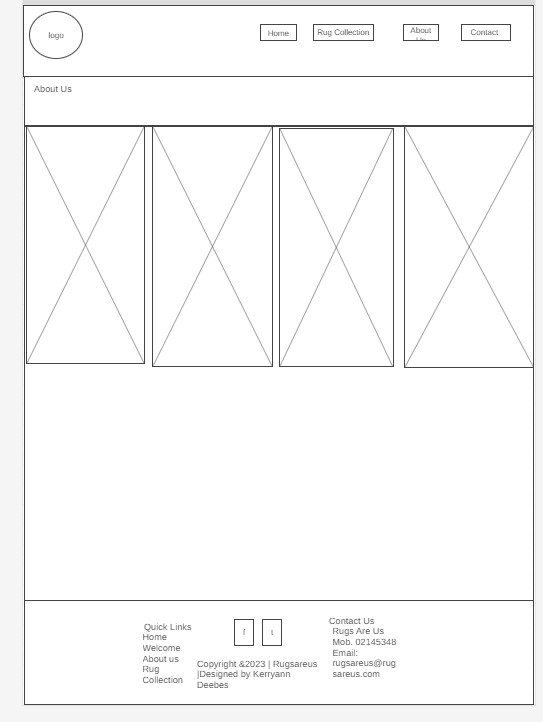
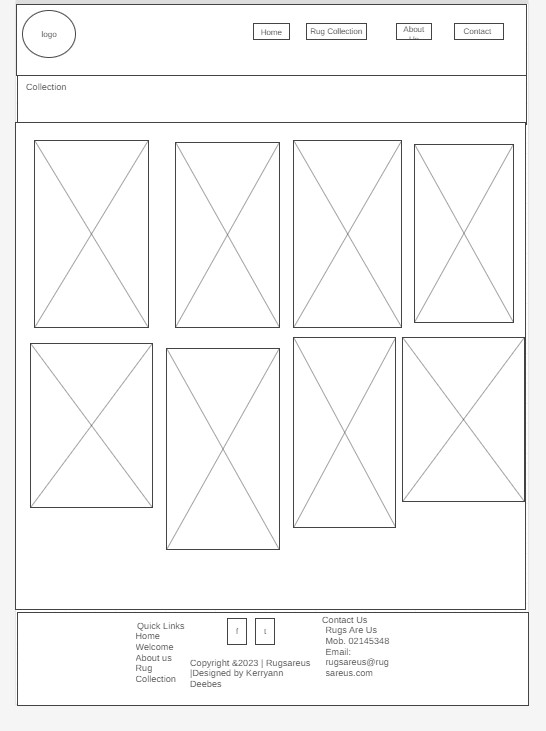
Changes

diff --git a/rugsareus/aboutus.html b/rugsareus/aboutus.html
@@ -8,15 +8,16 @@
 <body>
     <div id="content">
         <header>
-            <a id="logo_link" href="index.html">
-                <img class="logo" src="images/logo1.jpg" alt="Dry Oar Logo" height="60" width="60">
-            </a>
+            <img class="logo" src="images/logo1.jpg" alt="logo" height="60" width="60">
             <nav>
-                <a href="index.html">Home</a>
-                <a href="rugcollection.html">Rug Collection</a>
-                <a href="aboutus.html"> About Us</a>
+              <ul class="nav_links">
+                <li><a href="index.html">Home</a></li>
+                <li><a href="rug-collection.html">Rug Collection</a></li>
+                <li><a href="aboutus.html">About Us</a></li>
+              </ul>
             </nav>
-        </header>
+            <a class="cta" href="#"><button>Contact</button></a>
+          </header>
         <section id="aboutus">
             <h1 class="aboutus-title">About Us</h1>
         </section> 
@@ -41,35 +42,37 @@
                 
             </section>
     
-        <footer>
-            <p><a href="site-plan.html">Site Plan</a></p>
-            <p><a href="contactus.html">Contact Us</a></p>
-            <p>Rugs Are Us</p>
-            <p>Mob: 02145348</p>
-            <p>Email:rugsareus@rugsareus.com</p>
-
-        
-            <div class="quick-links">Quick Links
-                <a href="index.html">Home</a>
-                <a href="welcome.html">Welcome</a>
-                <a href="aboutus.html">About Us</a>
-                <a href="rugcollection.html">Rug Collection</a>
-    
-            </div>
-        
-
-        <div class="social">
-            <div class="follow_us">Follow us
-            </div>
-            <a href="https://facebook.com" target="_blank">
-                <img class="icon" src="images/facebook.png" alt="fb icon" height="50" width="50">
-            </a>
-            <a href="https://twitter.com" target="_blank">
-                <img src="images/twitter.png" alt="twitter icon" height="50" width="50"></a>
-            <p>Rugs Are Us &copy;</p>
-        </div>
-
-        </footer>  
+            <footer>
+                <div class="footersocials">
+                  <a href=""><i class="fa-brands fa-facebook"></i></a>
+                  <a href=""><i class="fa-brands fa-twitter"></i></a>
+                </div>
+                <div id="f-split">
+                  <div class="footerNav">
+                    <h4>Quick Links</h4>
+                    <ul>
+                      <li><a href="#">Home</a></li>
+                      <li><a href="#">Welcome</a></li>
+                      <li><a href="#">About us</a></li>
+                      <li><a href="#">Rug</a></li>
+                      <li><a href="#">Collection</a></li>
+                    </ul>
+                  </div>
+            
+                  <div class="footer-col">
+                    <h4>Contact Us</h4>
+                    <ul>
+                      <li><a href="#">Rugs Are Us</a></li>
+                      <li><a href="#">Mob. 0214534B</a></li>
+                      <li><a href="#">Email: info@rugsareus.com</a></li>
+                    </ul>
+                  </div>
+                </div>
+            
+                <div class="footerBottom">
+                  <p>Copyright &copy;2023 | Rugsareus | Designed by <span class="designer">Kerryann Deebes</span></p>
+                </div>
+              </footer>
 
 </div>
 </body>

diff --git a/rugsareus/rug-collection.html b/rugsareus/rug-collection.html
@@ -6,7 +6,6 @@
   <meta name="viewport" content="width=device-width, initial-scale=1.0">
   <title>Rug Collection</title>
   <link type="text/css" rel="stylesheet" href="rug_collection.css">
-  <link rel="stylesheet" href="https://cdnjs.cloudflare.com/ajax/libs/font-awesome/6.5.1/css/all.min.css"/>
 </head>
 <body>
 
@@ -25,36 +24,57 @@
   <main>
     <div class="container">
       <h1 class="title">Collection</h1>
+      <p>Check out our photo-gallery</p>
 
       <div class="photo-gallery">
 
         <div class="column">
           <div class="photo">
-            <img src="images/rsz_2image.jpg" alt="Kids Collection"> 
-            <p> Kids Collection</p>
+          <img src="images/rsz_2image.jpg" alt="Kids Collection"> 
           </div>
-        </div>    
-
+        
+          <div class="photo">
+          <img src="images/kidsc3.jpg" alt="Kids Collection"> 
+          </div>
+        
+        </div>
+        
+        
+        
         <div class="column">
           <div class="photo">
-            <img src="images/shagc3.jpg" alt="Shag Collection">
-            <p> Shag Collection</p>
+          <img src="images/shagc3.jpg" alt="Shag Collection">
           </div>
+        
+          <div class="photo">
+          <img src="images/shagc4.jpg" alt="Shag Collection"> 
+          </div>
+        
         </div>
-
+        
         <div class="column">
           <div class="photo">
-            <img src="images/trc1.jpg" alt="Traditional Collection"> 
-            <p> Traditional Collection</p>
+          <img src="images/trc1.jpg" alt="Traditional Collection"> 
           </div>
+        
+          <div class="photo">
+          <img src="images/trc3.jpg" alt="Traditional Collection"> 
+          </div>
+        
         </div>
-
+        
+        
         <div class="column">
           <div class="photo">
-            <img src="images/rsz_1modern1.jpg" alt="Modern Collection"> 
-            <p> Modern Collection</p>
+          <img src="images/rsz_1modern1.jpg" alt="Modern Collection"> 
           </div>
+        
+          <div class="photo">
+          <img src="images/modern4.jpg" alt="Modern Collection"> 
+          </div>
+        
         </div>
+        
 
       </div>
     </div>

diff --git a/rugsareus/site-plan.html b/rugsareus/site-plan.html
@@ -164,8 +164,8 @@
         As you embark on your exploration of our extensive collection, take the time to envision how each rug can harmonize with your surroundings. Our user-friendly website is designed to make this journey seamless, providing detailed descriptions, high-quality images, and filtering options to streamline your selection process. We want you to feel confident that the rug you choose is not just a purchase but an investment in the comfort and style of your home.
       </p>
       <p>Images for the Page 2</p>
-        <img src="images\rug_collection1.jpg" alt="image for page">
-        <img src="images\rug_collection2.jpg" alt="image for page">
+        <img src="images\shagc4.jpg" alt="image for page">
+        <img src="images\kidsc3.jpg" alt="image for page">
 
       </ul>
       <h3>About Us</h3>

diff --git a/rugsareus/styles/style.css b/rugsareus/styles/style.css
@@ -21,13 +21,6 @@ header, footer {
     background-color: #24252a;
 }
 
-
-
-
-
-
-
-
 li, a, button {
 
     font-family: 'Arial', sans-serif;
@@ -87,6 +80,18 @@ button:hover {
 #welcome {
     text-align: center;
     padding: 20px;
+    max-width: 1224px;
+    margin: auto;
+    padding: 40px 0;
+    background-size: cover;
+    background-repeat: no-repeat;
+    display: flex;
+    flex-direction: column;
+    justify-content: center;
+    color: #424144;
+
+
+
 }
 
 .welcome-title {
@@ -112,8 +117,10 @@ button:hover {
 }
 
 
-.home-pg-img {
+.bottom img {
     flex-grow: 1; 
+     padding: 20px;
+    
 }
 
 .homepage-img {

diff --git a/rugsareus/rug_collection.css b/rugsareus/rug_collection.css
@@ -80,6 +80,22 @@ h1 {
     width: 90%;
     margin: auto;
     padding: 40px 0;
+    background-size: cover;
+    background-repeat: no-repeat;
+    display: flex;
+    flex-direction: column;
+    justify-content: center;
+    align-items: flex-start;
+    color: #424144;
+}
+
+.container h1{
+    font-size: 40px;
+}
+
+.container p{
+    font-size: 20px;
+    margin-top: 20px;
 }
 
 

diff --git a/rugsareus/index.html b/rugsareus/index.html
@@ -38,7 +38,7 @@
         </div>
 
         </section>
-        <div class="home-pg-img">
+        <div class="bottom">
             <img class="homepage-img" src="images/rsz_1rsz_2homepage2.jpg" alt="second homepage  welcome image ">
         </div> 
     </main>
